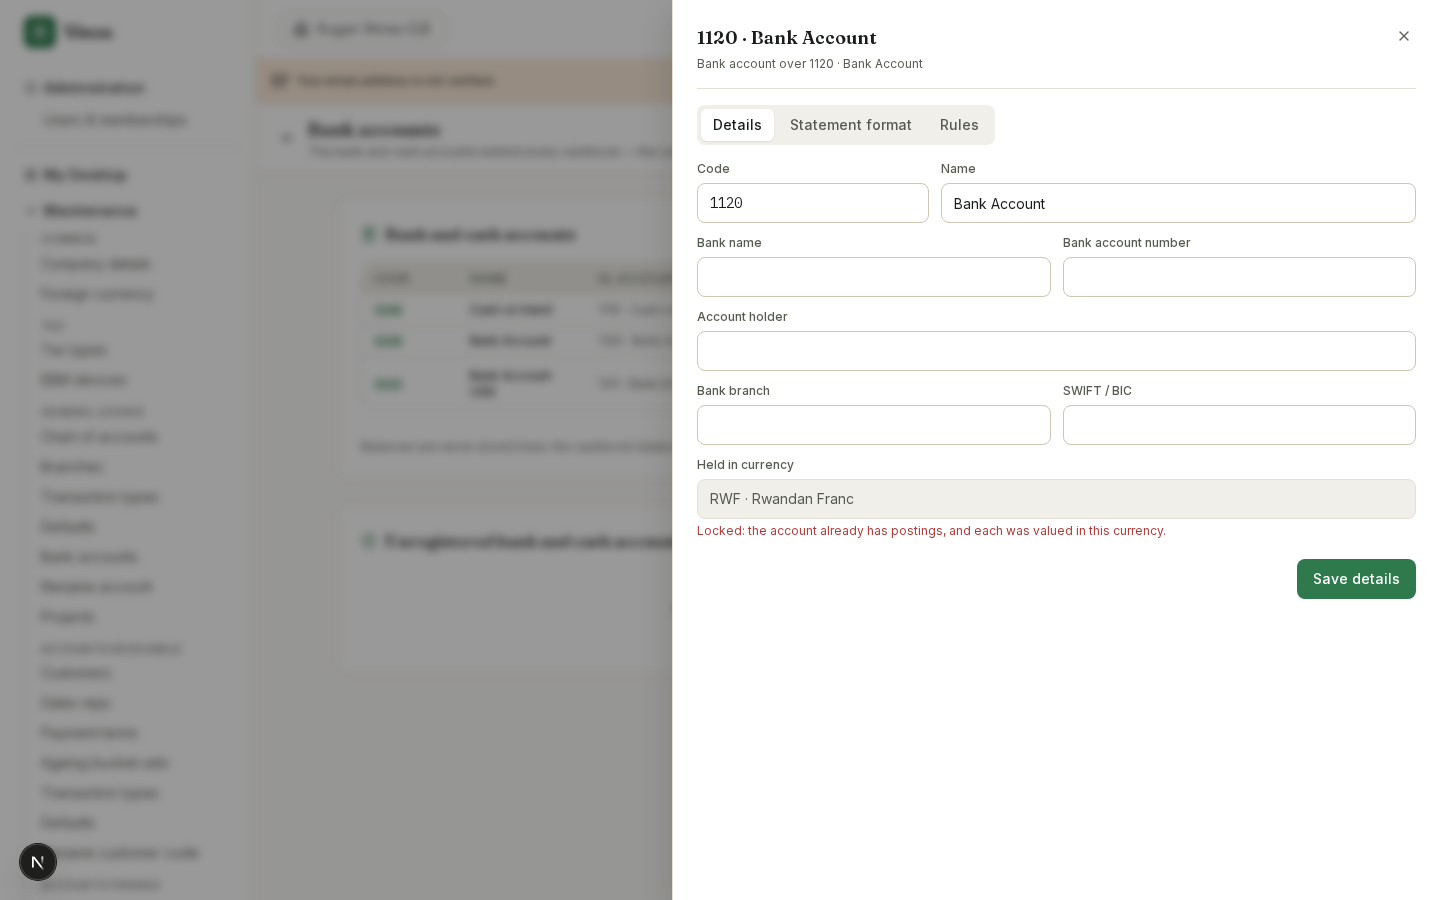
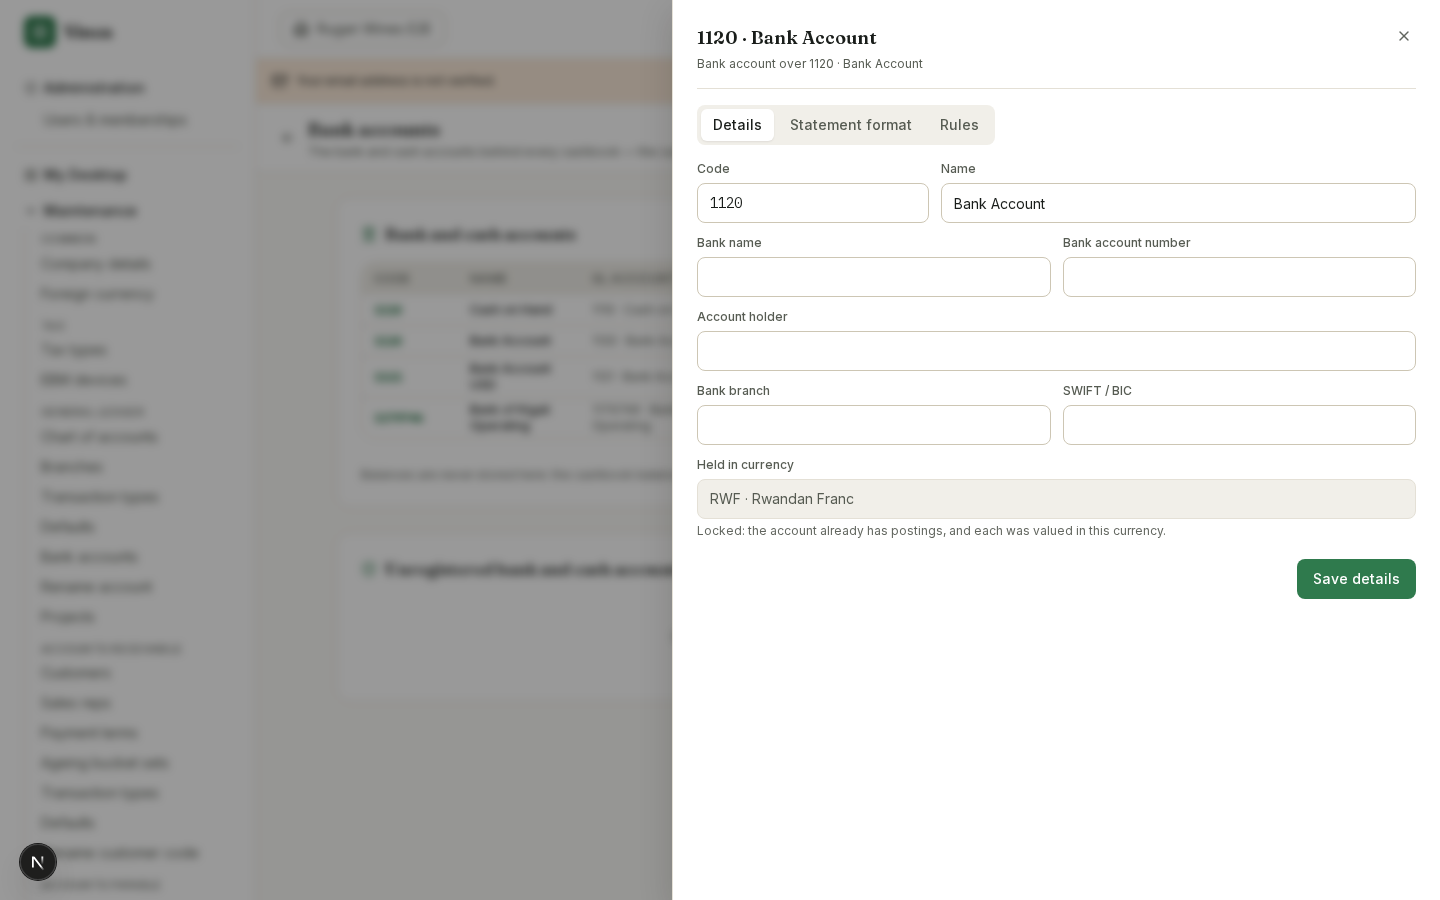
docs(p8): step-7a screenshots, light and dark, the script that captures them, and step 6's shot 3 re-taken
Looking at them found two defects, fixed here: the panes stack below 2xl so an amount stays on
one line, and the Locked in BRC-n chip no longer breaks the number.

Changed region(s): [[0.25, 0.5911, 0.4688, 0.6533], [0.3125, 0.4356, 0.375, 0.4978], [0.25, 0.4044, 0.2812, 0.4667]]

diff --git a/frontend/scripts/capture-p8-transactions.ts b/frontend/scripts/capture-p8-transactions.ts
@@ -1,0 +1,257 @@
+/**
+ * Captures the P8 step-7a screens — Bank statements and the reconciliation workspace — for the
+ * review record: 1440x900, light and dark. Run against the dev stack on a reset database
+ * (`make db-reset`), after the dev server has compiled the routes once:
+ *
+ *   OUT=../docs/screenshots/p8-step-7 npx tsx scripts/capture-p8-transactions.ts
+ *
+ * Every shot has **rows in it** (rule 13). The script makes a bank account of its own (suffixed,
+ * in the generic format, with an `ACCOUNT FEE` rule), posts the ledger lines, generates the
+ * statement from them, and drives the screens — import, auto-match, a match, the drawer, the
+ * lock — through the product's own buttons and endpoints, never by writing behind the app.
+ *
+ * The screens are stateful (a lock cannot be taken twice), so each state is photographed in
+ * both themes before the script moves on.
+ */
+import { chromium, type Page } from "@playwright/test";
+import { PASSWORD, PRIMARY_EMAIL as OWNER, pickCombobox } from "../e2e/support/fixtures";
+import { todayIso } from "../src/lib/format";
+
+const OUT = process.env.OUT ?? "screenshots";
+const BASE = process.env.BASE_URL ?? "http://localhost:3000";
+const API = `${process.env.API_URL ?? "http://localhost:8000"}/api/v1`;
+
+const SUFFIX = String(Date.now()).slice(-5);
+const TODAY = todayIso();
+const GL_CODE = `11${SUFFIX}`;
+const GL_NAME = "Bank of Kigali Operating";
+const CUSTOMER_NAME = "Nyamirambo Traders";
+const DEPOSIT_REF = `DEP${SUFFIX}`;
+
+async function hydrated(page: Page, selector: string) {
+  await page.waitForFunction((sel) => {
+    const node = document.querySelector(sel);
+    return (
+      node !== null &&
+      Object.keys(node).some((k) => k.startsWith("__reactFiber$") || k.startsWith("__reactProps$"))
+    );
+  }, selector);
+}
+
+async function login(page: Page, email: string) {
+  await page.goto(`${BASE}/login`);
+  await hydrated(page, "form");
+  await page.fill('input[type="email"]', email);
+  await page.fill('input[type="password"]', PASSWORD);
+  await page.click('button[type="submit"]');
+  await page.waitForURL(`${BASE}/`);
+  await page.waitForSelector("text=Good morning");
+}
+
+/** Both themes over the one state on the screen. */
+async function shoot(page: Page, name: string, opts: { height?: number } = {}) {
+  // A success toast over the panes is not what the shot is of. Radix pauses a toast's timer
+  // while the page has the pointer or focus, so waiting it out is not reliable: hide the layer.
+  // And start from the top: ticking a checkbox low on the page scrolls it.
+  await page.evaluate(() => {
+    document.querySelectorAll<HTMLElement>("ol").forEach((node) => {
+      if (getComputedStyle(node).position === "fixed") node.style.visibility = "hidden";
+    });
+    window.scrollTo(0, 0);
+    document.querySelectorAll<HTMLElement>("main, [data-scroll-root]").forEach((node) => {
+      node.scrollTop = 0;
+    });
+  });
+  // The workspace's two panes are stacked at this width; a taller window holds both, where a
+  // full-page shot would be as long as the sidebar.
+  await page.setViewportSize({ width: 1440, height: opts.height ?? 900 });
+  for (const theme of ["light", "dark"] as const) {
+    await page.evaluate((t) => document.documentElement.setAttribute("data-theme", t), theme);
+    await page.waitForTimeout(400);
+    await page.screenshot({ path: `${OUT}/${name}-${theme}.png`, });
+    console.log("captured", `${name}-${theme}`);
+  }
+  await page.evaluate(() => document.documentElement.setAttribute("data-theme", "light"));
+  await page.setViewportSize({ width: 1440, height: 900 });
+}
+
+/** Module scope for the reason `capture-p7-maintenance.ts` gives (`tsx`'s `__name` helper does
+ * not exist in the browser). */
+async function apiOk(page: Page, path: string, body?: unknown, method = "POST"): Promise<unknown> {
+  const res = await page.evaluate(
+    async ({ url, body, method }) => {
+      const res = await fetch(url, {
+        method,
+        credentials: "include",
+        headers: { "Content-Type": "application/json", "Idempotency-Key": crypto.randomUUID() },
+        body: body === undefined ? undefined : JSON.stringify(body),
+      });
+      return { status: res.status, json: await res.json().catch(() => null) };
+    },
+    { url: `${API}${path}`, body, method },
+  );
+  if (res.status >= 300) throw new Error(`${method} ${path} -> ${res.status}: ${JSON.stringify(res.json)}`);
+  return res.json;
+}
+
+function statementCsv(badRow = false): string {
+  const rows = [
+    ["OPENING DEPOSIT", "", "", "1000000", "1000000"],
+    [`TRANSFER ${DEPOSIT_REF}`, "", "", "118000", "1118000"],
+    ["CASH DEPOSIT BULK", "", "", "40000", "1158000"],
+    ["MONTHLY ACCOUNT FEE", "", "2500", "", "1155500"],
+    ["INWARD TRF NYAMIRAMBO TRADERS", "", "", "60000", "1215500"],
+  ];
+  // The bad row is today in the bank's own `DD/MM/YYYY` — the export a mis-set format misreads.
+  const [year, month, day] = TODAY.split("-");
+  const lines = rows.map((row, index) =>
+    [badRow && index === 2 ? `${day}/${month}/${year}` : TODAY, ...row].join(","),
+  );
+  return ["Date,Description,Reference,Debit,Credit,Balance", ...lines].join("\n") + "\n";
+}
+
+function csvFile(name: string, badRow = false) {
+  return { name, mimeType: "text/csv", buffer: Buffer.from(statementCsv(badRow)) };
+}
+
+async function main() {
+  const browser = await chromium.launch({
+    executablePath: process.env.PLAYWRIGHT_CHROMIUM_PATH || undefined,
+  });
+  const context = await browser.newContext({ viewport: { width: 1440, height: 900 } });
+  const page = await context.newPage();
+  await login(page, OWNER);
+
+  const accounts = (await apiOk(page, "/gl/accounts", undefined, "GET")) as Array<{ id: number; code: string }>;
+  const id = (code: string) => accounts.find((account) => account.code === code)!.id;
+  const bank = (await apiOk(page, "/banking/accounts", {
+    new_account: { code: GL_CODE, name: GL_NAME, kind: "bank", parent_id: id("1100") },
+    code: GL_CODE,
+    name: GL_NAME,
+    bank_name: "Bank of Kigali",
+    account_number: `00040-00${SUFFIX}-17`,
+    statement_format: { preset: "generic" },
+  })) as { id: number; gl_account_id: number };
+  await apiOk(page, `/banking/accounts/${bank.id}/rules`, {
+    pattern: "ACCOUNT FEE",
+    gl_account_id: id("6700"),
+    description: "Monthly account fee",
+    priority: 10,
+  });
+  await apiOk(page, "/subledger/ar/partners", { name: CUSTOMER_NAME, customer_code: `NYT${SUFFIX}` });
+  const post = async (kind: string, amount: string, reference: string, description: string) =>
+    ((await apiOk(page, "/gl/cashbook-entries", {
+      entry_date: TODAY,
+      description,
+      reference,
+      cash_account_id: bank.gl_account_id,
+      kind,
+      lines: [{ gl_account_id: id("3400"), amount }],
+    })) as { number: string }).number;
+  await post("receipt", "1000000", `OPEN${SUFFIX}`, "Opening balance");
+  const bulkA = await post("receipt", "25000", `BNKA${SUFFIX}`, "Cash banked, till A");
+  const bulkB = await post("receipt", "15000", `BNKB${SUFFIX}`, "Cash banked, till B");
+  await post("payment", "70000", `CHQ${SUFFIX}`, "Cheque 000412 to Musanze Packaging");
+  await post("receipt", "118000", DEPOSIT_REF, "Customer transfer");
+
+  // 1 — Import's preview over a file with one bad row: the error by row, Import refused.
+  await page.goto(`${BASE}/bank/statements?account=${bank.id}`);
+  await page.getByRole("heading", { name: "Bank statements", exact: true }).waitFor();
+  await page.getByRole("button", { name: "Import", exact: true }).click();
+  const dialog = page.getByRole("dialog");
+  await dialog.getByLabel("Statement file", { exact: true }).setInputFiles(csvFile("bk-statement.csv", true));
+  await dialog.getByRole("button", { name: "Preview", exact: true }).click();
+  await dialog.getByTestId("import-blocked").waitFor();
+  await shoot(page, "7a-1-import-preview-error");
+  await dialog.getByLabel("Statement file", { exact: true }).setInputFiles(csvFile("bk-statement-fixed.csv"));
+  await dialog.getByRole("button", { name: "Preview", exact: true }).click();
+  await dialog.getByText("Read cleanly", { exact: true }).waitFor();
+  await dialog.getByRole("button", { name: "Import statement", exact: true }).click();
+  await page.getByTestId("import-result").waitFor();
+
+  // Open the reconciliation through the product's own New dialog.
+  await page.goto(`${BASE}/bank/reconciliations?account=${bank.id}`);
+  await page.getByRole("button", { name: "New reconciliation", exact: true }).click();
+  await page.getByRole("dialog").getByRole("button", { name: "Open reconciliation", exact: true }).click();
+  await page.waitForURL(/\/bank\/reconciliations\/\d+$/);
+  const workspaceUrl = page.url();
+  await page.locator("tr[data-statement-line-id]").first().waitFor();
+  await page.getByRole("button", { name: "Auto-match", exact: true }).click();
+  await page.getByTestId("auto-match-result").waitFor();
+
+  // 3 — mid-match: one bank line against the first of the two ledger lines it covers, the
+  // selection's imbalance beside the button.
+  await page.getByRole("checkbox", { name: "Select statement line CASH DEPOSIT BULK", exact: true }).check();
+  await page.getByRole("checkbox", { name: `Select ledger line ${bulkA}`, exact: true }).check();
+  await page.getByTestId("selection-balance").waitFor();
+  await shoot(page, "7a-3-workspace-mid-match", { height: 1500 });
+  await page.getByRole("checkbox", { name: `Select ledger line ${bulkB}`, exact: true }).check();
+  await page.getByRole("button", { name: "Match", exact: true }).click();
+  await page
+    .locator("tr[data-statement-line-id]", { hasText: "CASH DEPOSIT BULK" })
+    .getByText("Matched · by hand")
+    .waitFor();
+
+  // 2 — the statement's detail: three of five lines matched, each by its rule.
+  const statements = (await apiOk(page, `/banking/statements?bank_account_id=${bank.id}`, undefined, "GET")) as Array<{
+    id: number;
+  }>;
+  await page.goto(`${BASE}/bank/statements/${statements[0].id}`);
+  await page.getByTestId("statement-matched").waitFor();
+  await shoot(page, "7a-2-statement-detail");
+
+  // 4 — the fee's drawer, prefilled by the rule.
+  await page.goto(workspaceUrl);
+  await page.locator("tr[data-statement-line-id]").first().waitFor();
+  await page
+    .locator("tr[data-statement-line-id]", { hasText: "MONTHLY ACCOUNT FEE" })
+    .getByRole("button", { name: "Post from line", exact: true })
+    .click();
+  const drawer = page.getByRole("dialog", { name: "Post from a statement line", exact: true });
+  await drawer.getByTestId("prefill-note").waitFor();
+  await drawer.getByText("6700 · Bank Charges").first().waitFor();
+  await shoot(page, "7a-4-drawer-prefilled-by-rule");
+  await drawer.getByRole("button", { name: "Post cashbook entry", exact: true }).click();
+  await drawer.waitFor({ state: "hidden" });
+
+  await page
+    .locator("tr[data-statement-line-id]", { hasText: "INWARD TRF" })
+    .getByRole("button", { name: "Post from line", exact: true })
+    .click();
+  const receipt = page.getByRole("dialog", { name: "Post from a statement line", exact: true });
+  await receipt.getByRole("tab", { name: "Customer receipt", exact: true }).click();
+  await pickCombobox(page, "Customer", CUSTOMER_NAME, { within: receipt });
+  await receipt.getByRole("button", { name: "Post receipt", exact: true }).click();
+  await receipt.waitFor({ state: "hidden" });
+
+  // 5 — Lock refused, with the difference shown before the button: the statement balance
+  // re-keyed 500 short, as it would be read off a smudged paper copy.
+  await page.getByTestId("lock-ready").waitFor();
+  await page.getByLabel("Statement balance", { exact: true }).fill("1215000");
+  await page.getByTestId("lock-blocked").waitFor();
+  await shoot(page, "7a-5-lock-refused-difference", { height: 1500 });
+
+  // 6 — locked at zero.
+  await page.getByLabel("Statement balance", { exact: true }).fill("1215500");
+  await page.getByTestId("lock-ready").waitFor();
+  await page.getByRole("button", { name: "Lock", exact: true }).click();
+  await page.getByTestId("locked-note").waitFor();
+  await shoot(page, "7a-6-locked-at-zero", { height: 1500 });
+
+  // 7 — Bank accounts: the currency lock as a neutral hint, on the account just reconciled.
+  await page.goto(`${BASE}/maintenance/bank-accounts`);
+  await page.locator(`tr[data-bank-account="${GL_CODE}"]`).waitFor();
+  await page
+    .locator(`tr[data-bank-account="${GL_CODE}"]`)
+    .getByRole("button", { name: `Edit ${GL_NAME}`, exact: true })
+    .click();
+  await page.getByRole("dialog").locator("[data-field-hint]").waitFor();
+  await shoot(page, "7a-7-bank-accounts-currency-hint");
+
+  await browser.close();
+}
+
+main().catch((err) => {
+  console.error(err);
+  process.exit(1);
+});

diff --git a/frontend/src/features/banking/reconciliation-workspace.tsx b/frontend/src/features/banking/reconciliation-workspace.tsx
@@ -502,7 +502,9 @@ export function ReconciliationWorkspace({ reconciliationId }: { reconciliationId
         </ReportPanel>
       ) : null}
 
-      <div className="grid grid-cols-1 gap-4 xl:grid-cols-2">
+      {/* Stacked below 2xl: side by side at a laptop's width, each pane is too narrow to hold an
+          amount on one line, and a figure broken across two lines is misread. */}
+      <div className="grid grid-cols-1 gap-4 2xl:grid-cols-2">
         <ReportPanel>
           <h2 className="pb-2 text-xs font-semibold text-[var(--vinea-ink-muted)]">
             {t("statementPane", { count: formatQuantity(statements.length, 0) })}
@@ -555,7 +557,7 @@ export function ReconciliationWorkspace({ reconciliationId }: { reconciliationId
                           </p>
                         ) : null}
                       </TD>
-                      <TD className="text-right font-mono text-xs tabular-nums">{money(line.amount)}</TD>
+                      <TD className="whitespace-nowrap text-right font-mono text-xs tabular-nums">{money(line.amount)}</TD>
                       <TD className="text-xs">
                         <div className="flex flex-wrap items-center gap-1.5">
                           <MatchStateChip
@@ -646,7 +648,7 @@ export function ReconciliationWorkspace({ reconciliationId }: { reconciliationId
                           </p>
                         ) : null}
                       </TD>
-                      <TD className="text-right font-mono text-xs tabular-nums">{money(line.amount)}</TD>
+                      <TD className="whitespace-nowrap text-right font-mono text-xs tabular-nums">{money(line.amount)}</TD>
                       <TD className="text-xs">
                         <div className="flex flex-wrap items-center gap-1.5">
                           {matched ? (

diff --git a/frontend/src/features/banking/match-state.tsx b/frontend/src/features/banking/match-state.tsx
@@ -30,7 +30,8 @@ export function MatchStateChip({
   }
   return (
     <span className="inline-flex flex-wrap items-center gap-1.5">
-      <StatusChip tone={reconciliationNumber ? "neutral" : "success"}>
+      {/* One line: a `BRC-` number broken across two is misread, as step 6's account numbers were. */}
+      <StatusChip tone={reconciliationNumber ? "neutral" : "success"} className="whitespace-nowrap">
         {reconciliationNumber
           ? t("lockedIn", { number: reconciliationNumber })
           : t("matchedBy", { rule: t(`ruleLabel.${rule}`) })}

diff --git a/docs/screenshots/p8-step-7/README.md b/docs/screenshots/p8-step-7/README.md
@@ -1,0 +1,36 @@
+# P8 step 7a — Bank statements and the reconciliation workspace
+
+1440x900 (the three workspace shots at 1440x1500, which holds both panes), light and dark,
+captured against the dev stack on a database reset by `make db-reset`, by
+`frontend/scripts/capture-p8-transactions.ts`, with the dev server warmed first:
+
+```sh
+make db-reset
+cd frontend
+OUT=../docs/screenshots/p8-step-7 npx tsx scripts/capture-p8-transactions.ts
+```
+
+The script makes a bank account of its own in the generic format with an `ACCOUNT FEE` rule,
+posts five cashbook entries on it, **generates the statement CSV from them** (dated today, no
+committed sample), and drives the screens through their own buttons: Import, New
+reconciliation, Auto-match, a manual match, both halves of Post from line, Lock. The `7a-`
+prefix leaves the numbers free for step 7's second half (payment runs, FX revaluation's bank
+lines) in the same folder.
+
+| # | Screen | Files |
+|---|---|---|
+| 1 | Import's preview over a file whose third row is dated `DD/MM/YYYY`: the error by row and column, the four good rows, the derived balances, *Import statement* refused before the button | `7a-1-import-preview-error-{light,dark}.png` |
+| 2 | The statement's detail: five lines, three matched — by amount and date, by reference, by hand over two ledger lines — and two unmatched; *Void* refused beside the button with the count | `7a-2-statement-detail-{light,dark}.png` |
+| 3 | The workspace mid-match: one bank line and one of the two ledger lines it covers selected, *Selection is out by FRw 15,000* beside Match; the strip live at a difference of FRw 97,500 with both lock refusals listed | `7a-3-workspace-mid-match-{light,dark}.png` |
+| 4 | *Post from line* on the monthly fee: the P3 cashbook grid, one row, prefilled by the rule (`6700 · Bank Charges`, "Monthly account fee"), the amount fixed at 2,500 | `7a-4-drawer-prefilled-by-rule-{light,dark}.png` |
+| 5 | Lock refused: every line matched, the statement balance re-keyed 500 short, *The difference is FRw -500* before the disabled button | `7a-5-lock-refused-difference-{light,dark}.png` |
+| 6 | Locked at zero: the stored figures (statement FRw 1,215,500, ledger FRw 1,145,500, outstanding FRw -70,000 — the one unpresented cheque), every match *Locked in BRC-000001*, Unmatch disabled, Reopen offered | `7a-6-locked-at-zero-{light,dark}.png` |
+| 7 | Bank accounts: the currency lock as a neutral hint under the field, not the red error slot | `7a-7-bank-accounts-currency-hint-{light,dark}.png` |
+
+Step 6's shot 3 (`../p8-step-6/3-bank-account-currency-locked-*.png`) was re-taken for the same
+hint. The Bank accounts list blurred behind its drawer carries this script's own account as a
+fourth row, because it was captured after this folder's run.
+
+**Looking at them found two defects**, both fixed before these were taken: side by side at this
+width the panes broke amounts over two lines (`FRw` / `1,000,000`), so they stack below 2xl;
+and the *Locked in BRC-000001* chip broke the number itself (`BRC-` / `000001`).
